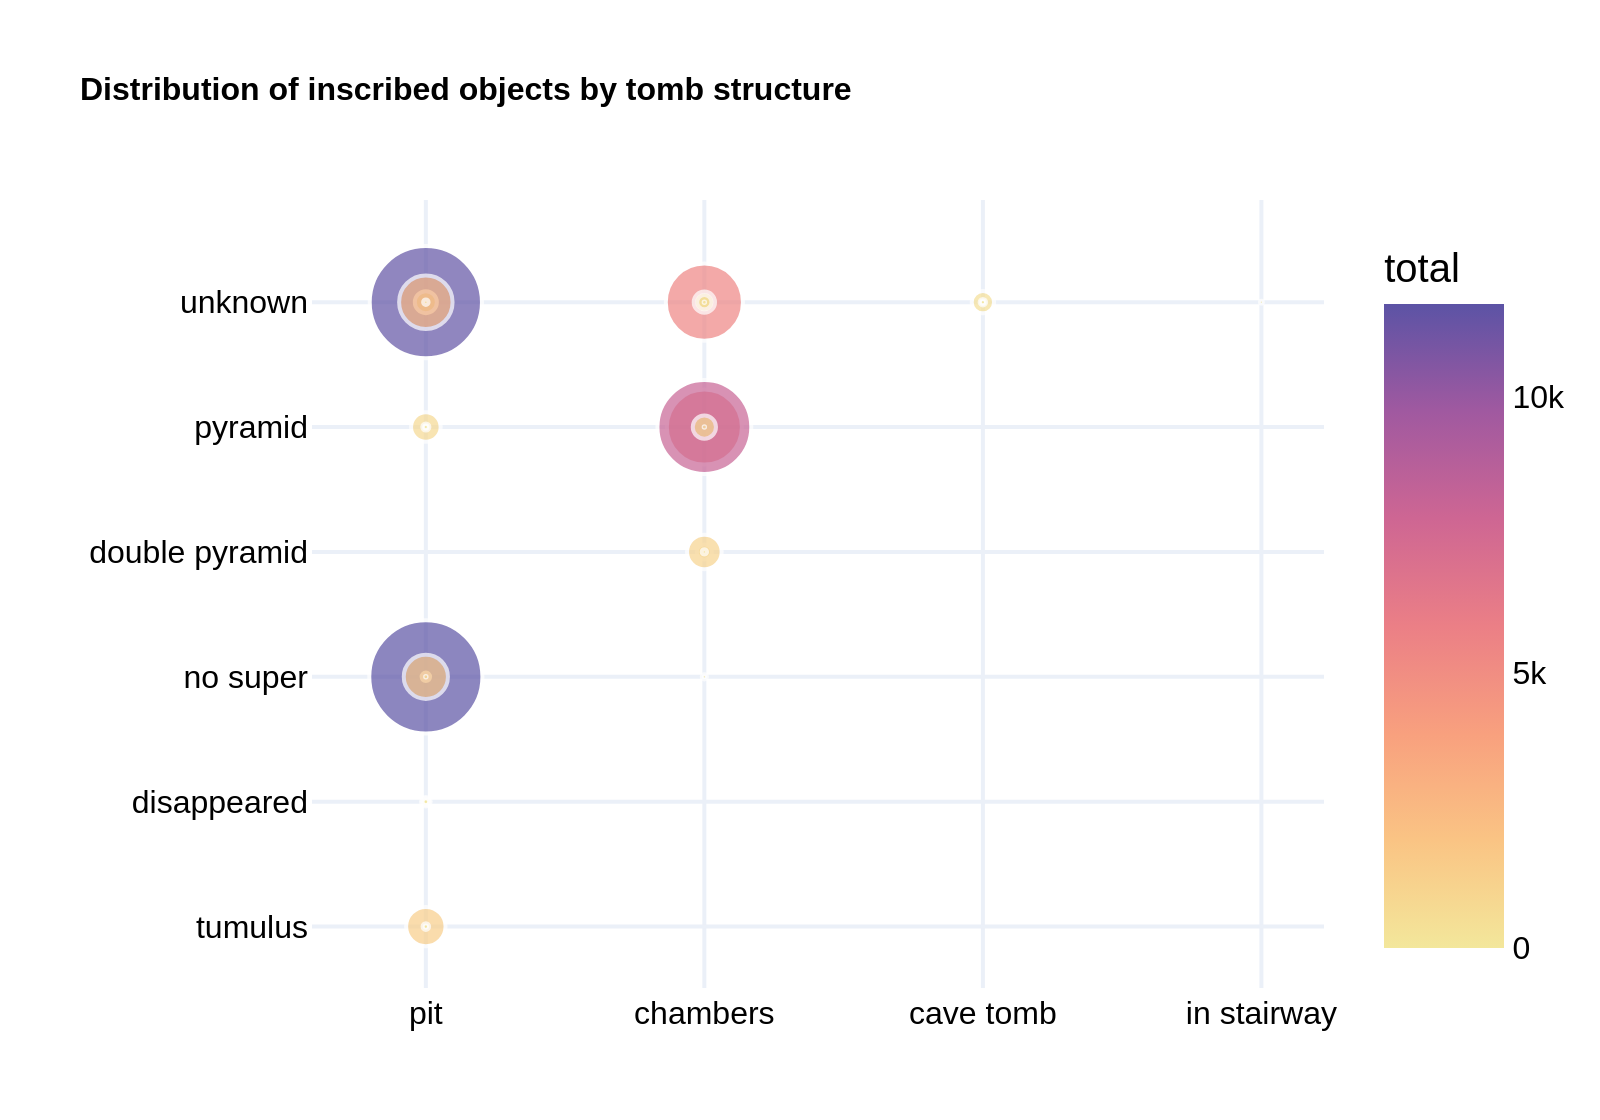
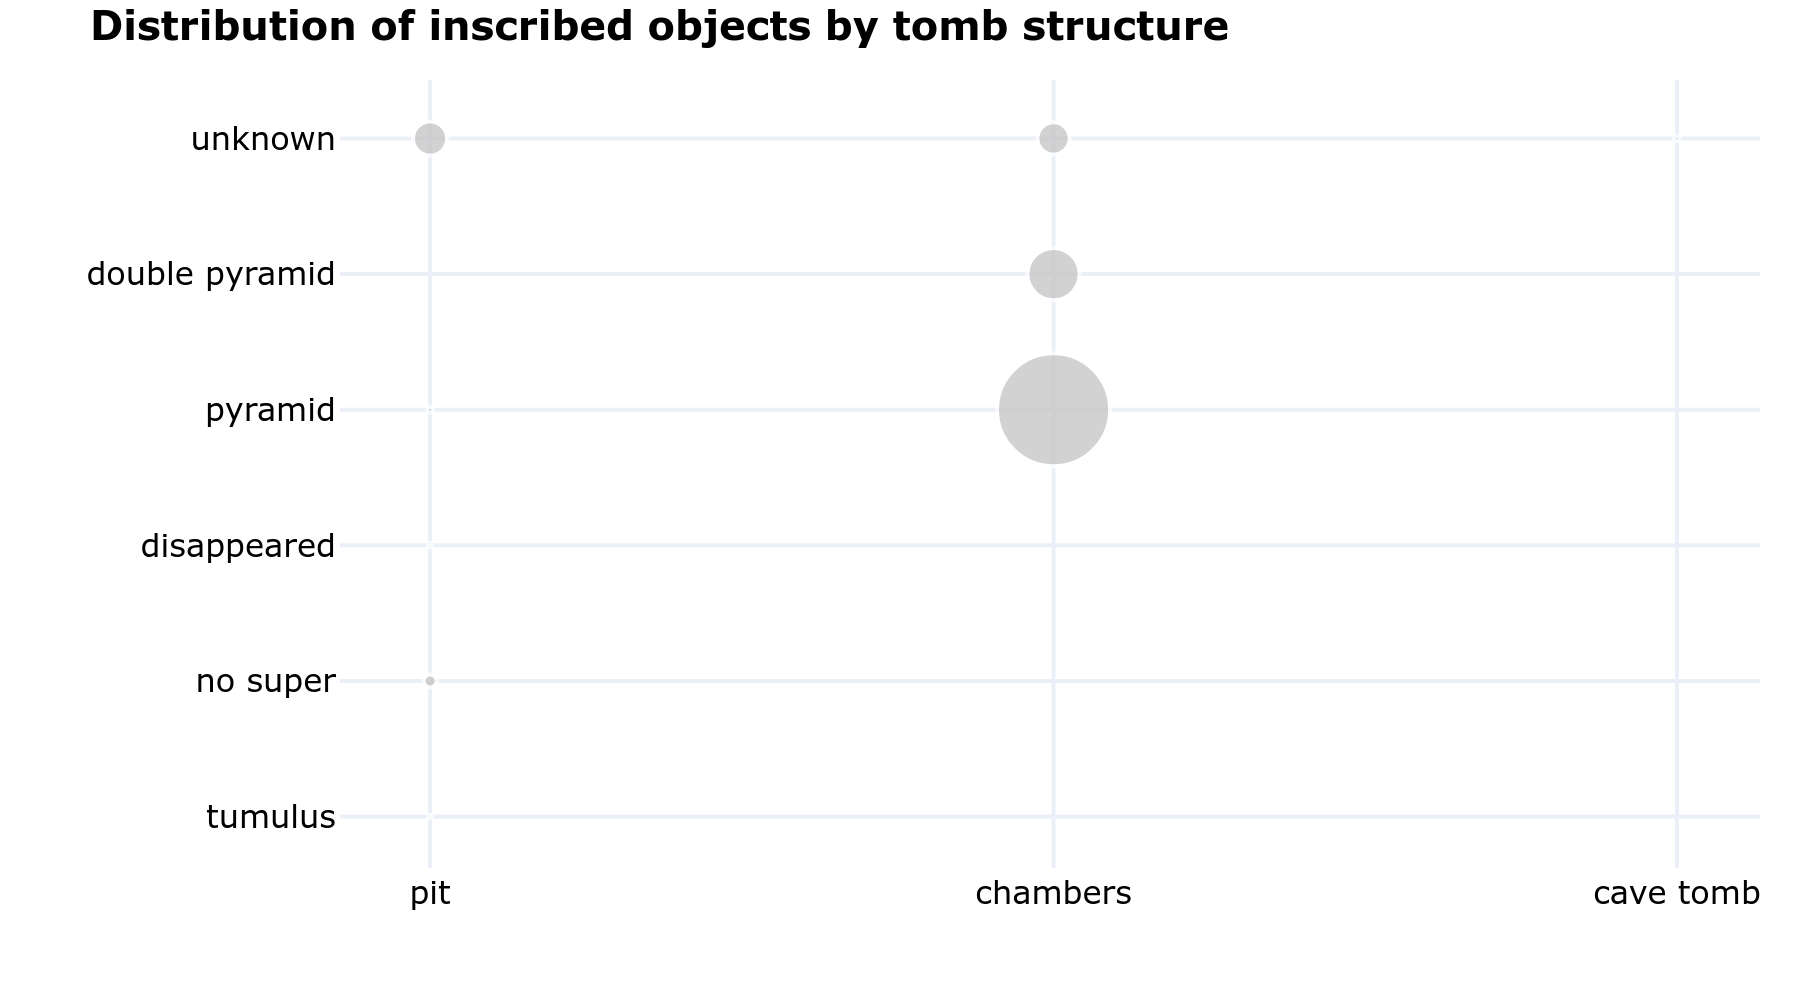
corrected chapter 2 graphs

diff --git a/diversenile/quantity_tomb.py b/diversenile/quantity_tomb.py
@@ -6,29 +6,37 @@ from sqlalchemy import create_engine
 engine = create_engine('mysql+pymysql://victoria:amulets123@localhost:3306/phd_v5')
 
 query = """
+WITH combined_data AS (
+    SELECT
+        b.sub,
+        b.super,
+        a.artifact_id AS item_id,
+        'artifact' AS item_type
+    FROM artifacts a
+    JOIN burials b ON b.burial_id = a.burial_id
+    WHERE dating = 'napatan' 
+        AND sub != 'deposit'
+        AND b.site_id IN (1,2,4,5,6,7,8,9,10)
+    
+    UNION ALL
+    
+    SELECT
+        b.sub,
+        b.super,
+        am.amulet_id AS item_id,
+        'amulet' AS item_type
+    FROM amulets am
+    JOIN burials b ON b.burial_id = am.burial_id
+    WHERE dating = 'napatan' 
+        AND sub != 'deposit'
+        AND b.site_id IN (1,2,4,5,6,7,8,9,10)
+)
 SELECT
-    b.sub,
-    b.super,
-    COUNT(a.artifact_id) AS total
-FROM artifacts a
-JOIN burials b ON b.burial_id = a.burial_id
-WHERE dating = 'napatan' 
-AND sub != 'deposit'
-AND b.site_id IN (1,2,4,5,6,7,8,9,10)
-GROUP BY 1,2
-
-UNION ALL
-
-SELECT
-    b.sub,
-    b.super,
-    COUNT(am.amulet_id) AS total
-FROM amulets am
-JOIN burials b ON b.burial_id = am.burial_id
-WHERE dating = 'napatan' 
-AND sub != 'deposit'
-AND b.site_id IN (1,2,4,5,6,7,8,9,10)
-GROUP BY 1,2
+    sub,
+    super,
+    COUNT(DISTINCT item_id) AS total
+FROM combined_data
+GROUP BY 1, 2
 """
 
 df = pd.read_sql(query, engine)
@@ -37,12 +45,12 @@ fig = px.scatter(
     df,
     x='sub',
     y='super',
-    color='total',
     size='total',
     #text='total',
-    title='<b>Distribution of number of artifacts by tomb structure</b>',
-    color_continuous_scale='Sunset',
+    title='<b>Distribution of quantity of objects by tomb structure</b>',
+    color_discrete_sequence=['#C0C0C0'],
     template="plotly_white",
+    labels={"total": "Total"},
 )
 
 #fig.update_traces(textposition='outside')
@@ -50,7 +58,7 @@ fig.update_xaxes(title_text='')
 fig.update_yaxes(title_text='')
 
 fig.update_layout(
-    yaxis={'categoryorder': 'total ascending'}, 
+    xaxis={'categoryorder': 'total descending'}, 
     legend=dict(
         orientation="h",
         yanchor="top",
@@ -63,9 +71,9 @@ fig.update_layout(
         color="black",
         size=8),
     legend_title_text='',
-    margin=dict(l=0, r=10, t=50, b=0),
+    margin=dict(l=0, r=10, t=20, b=0),
     autosize=True,
-    title_font=dict(size=8)
+    title_font=dict(size=10)
     )
 
 pio.write_image(fig, 'diversenile/images/quantity_tomb.png',scale=3, width=400, height=280)

diff --git a/diversenile/inscribed_tomb.py b/diversenile/inscribed_tomb.py
@@ -6,31 +6,40 @@ from sqlalchemy import create_engine
 engine = create_engine('mysql+pymysql://victoria:amulets123@localhost:3306/phd_v5')
 
 query = """
-SELECT
-    a.artifact_inscribed AS inscribed,
-    b.sub,
-    b.super,
-    COUNT(a.artifact_id) AS total
-FROM artifacts a
-JOIN burials b ON b.burial_id = a.burial_id
-WHERE dating = 'napatan' 
-AND sub != 'deposit'
-AND b.site_id IN (1,2,4,5,6,7,8,9,10)
-GROUP BY 1,2,3
+WITH inscribed_items AS (
+    -- Get inscribed artifacts
+    SELECT
+        a.artifact_id AS item_id,
+        b.sub,
+        b.super
+    FROM artifacts a
+    JOIN burials b ON b.burial_id = a.burial_id
+    WHERE b.dating = 'napatan' 
+        AND b.sub != 'deposit'
+        AND b.site_id IN (1,2,4,5,6,7,8,9,10)
+        AND a.artifact_inscribed = 1
+    
+    UNION ALL
+    
+    -- Get inscribed amulets
+    SELECT
+        am.amulet_id AS item_id,
+        b.sub,
+        b.super
+    FROM amulets am
+    JOIN burials b ON b.burial_id = am.burial_id
+    WHERE b.dating = 'napatan' 
+        AND b.sub != 'deposit'
+        AND b.site_id IN (1,2,4,5,6,7,8,9,10)
+        AND am.inscribed = 1
+)
 
-UNION ALL
-
 SELECT
-    am.inscribed AS inscribed,
-    b.sub,
-    b.super,
-    COUNT(am.amulet_id) AS total
-FROM amulets am
-JOIN burials b ON b.burial_id = am.burial_id
-WHERE dating = 'napatan' 
-AND sub != 'deposit'
-AND b.site_id IN (1,2,4,5,6,7,8,9,10)
-GROUP BY 1,2,3;
+    sub,
+    super,
+    COUNT(item_id) AS total
+FROM inscribed_items
+GROUP BY 1,2
 """
 
 df = pd.read_sql(query, engine)
@@ -39,11 +48,10 @@ fig = px.scatter(
     df,
     x='sub',
     y='super',
-    color='total',
     size='total',
     #text='total',
     title='<b>Distribution of inscribed objects by tomb structure</b>',
-    color_continuous_scale='Sunset',
+    color_discrete_sequence=['#C0C0C0'],
     template="plotly_white",
 )
 
@@ -65,9 +73,9 @@ fig.update_layout(
         color="black",
         size=8),
     legend_title_text='',
-    margin=dict(l=0, r=10, t=50, b=0),
+    margin=dict(l=0, r=10, t=20, b=0),
     autosize=True,
-    title_font=dict(size=8)
+    title_font=dict(size=10)
     )
 
-pio.write_image(fig, 'diversenile/images/inscribed_tomb.png',scale=4, width=400, height=280)
+pio.write_image(fig, 'diversenile/images/inscribed_tomb.png',scale=4, width=450, height=250)

diff --git a/diversenile/burial_tombs.py b/diversenile/burial_tombs.py
@@ -29,7 +29,7 @@ fig = px.scatter(
     color='type',
     size='total',
     #text='total',
-    title='<b>Distribution of objects for the burial by tomb structure</b>',
+    title='<b>Distribution of burial-specific objects by tomb structure</b>',
     color_discrete_sequence=px.colors.qualitative.Plotly,
     template="plotly_white",
 )
@@ -45,16 +45,16 @@ fig.update_layout(
         yanchor="top",
         y=-0.10,
         xanchor="center",
-        x=0.50),
+        x=0.40),
         #traceorder='reversed'),
     font=dict(
         family="Verdana, sans-serif",
         color="black",
         size=8),
     legend_title_text='',
-    margin=dict(l=0, r=10, t=50, b=0),
+    margin=dict(l=0, r=10, t=20, b=0),
     autosize=True,
-    title_font=dict(size=8)
+    title_font=dict(size=10)
     )
 
-pio.write_image(fig, 'diversenile/images/burial_tombs.png',scale=4, width=550, height=300)
+pio.write_image(fig, 'diversenile/images/burial_tombs.png',scale=4, width=550, height=250)

diff --git a/diversenile/material_tomb.py b/diversenile/material_tomb.py
@@ -29,7 +29,7 @@ fig = px.scatter(
     color='material',
     size='total',
     #text='total',
-    title='<b>Distribution of selected object materials across tomb structures</b>',
+    title='<b>Distribution of "prestigious" object materials across tomb structures</b>',
     color_discrete_sequence=px.colors.qualitative.Plotly,
     template="plotly_white",
 )
@@ -52,9 +52,9 @@ fig.update_layout(
         color="black",
         size=8),
     legend_title_text='',
-    margin=dict(l=0, r=10, t=50, b=0),
+    margin=dict(l=0, r=10, t=20, b=0),
     autosize=True,
-    title_font=dict(size=8)
+    title_font=dict(size=10)
     )
 
-pio.write_image(fig, 'diversenile/images/materials_tomb.png',scale=3, width=450, height=280)
+pio.write_image(fig, 'diversenile/images/materials_tomb.png',scale=4, width=450, height=250)

diff --git a/diversenile/tombs.py b/diversenile/tombs.py
@@ -23,11 +23,10 @@ fig = px.scatter(
     df,
     x='sub',
     y='super',
-    color='total',
     size='total',
     #text='total',
-    title='<b>Correlation of super- and substructures</b>',
-    color_continuous_scale='Sunset',
+    title='<b>Correlation of tomb super- and substructures</b>',
+    color_discrete_sequence=['#C0C0C0'],
     template="plotly_white",
 )
 
@@ -49,9 +48,9 @@ fig.update_layout(
         color="black",
         size=8),
     legend_title_text='',
-    margin=dict(l=0, r=10, t=50, b=0),
+    margin=dict(l=0, r=10, t=20, b=0),
     autosize=True,
-    title_font=dict(size=8)
+    title_font=dict(size=10)
     )
 
 pio.write_image(fig, 'diversenile/images/tombs.png',scale=4, width=400, height=280)
